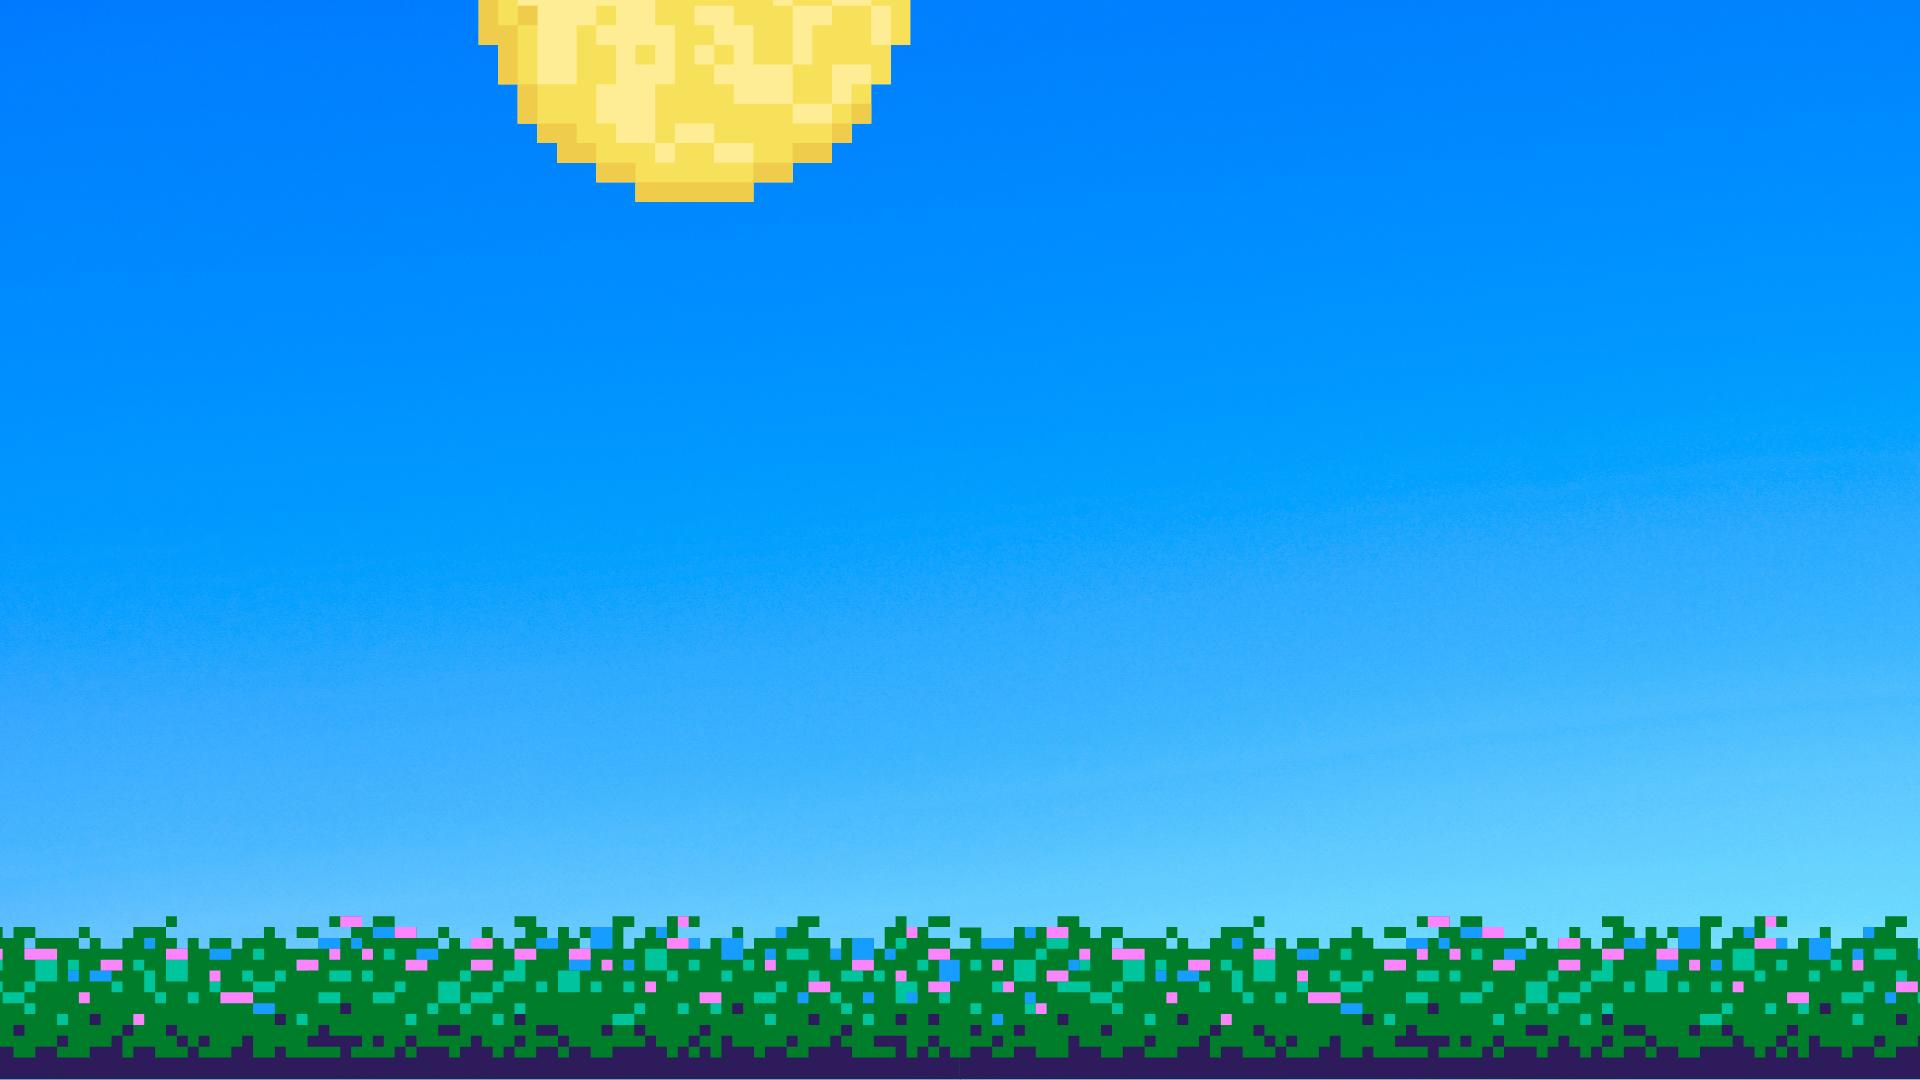
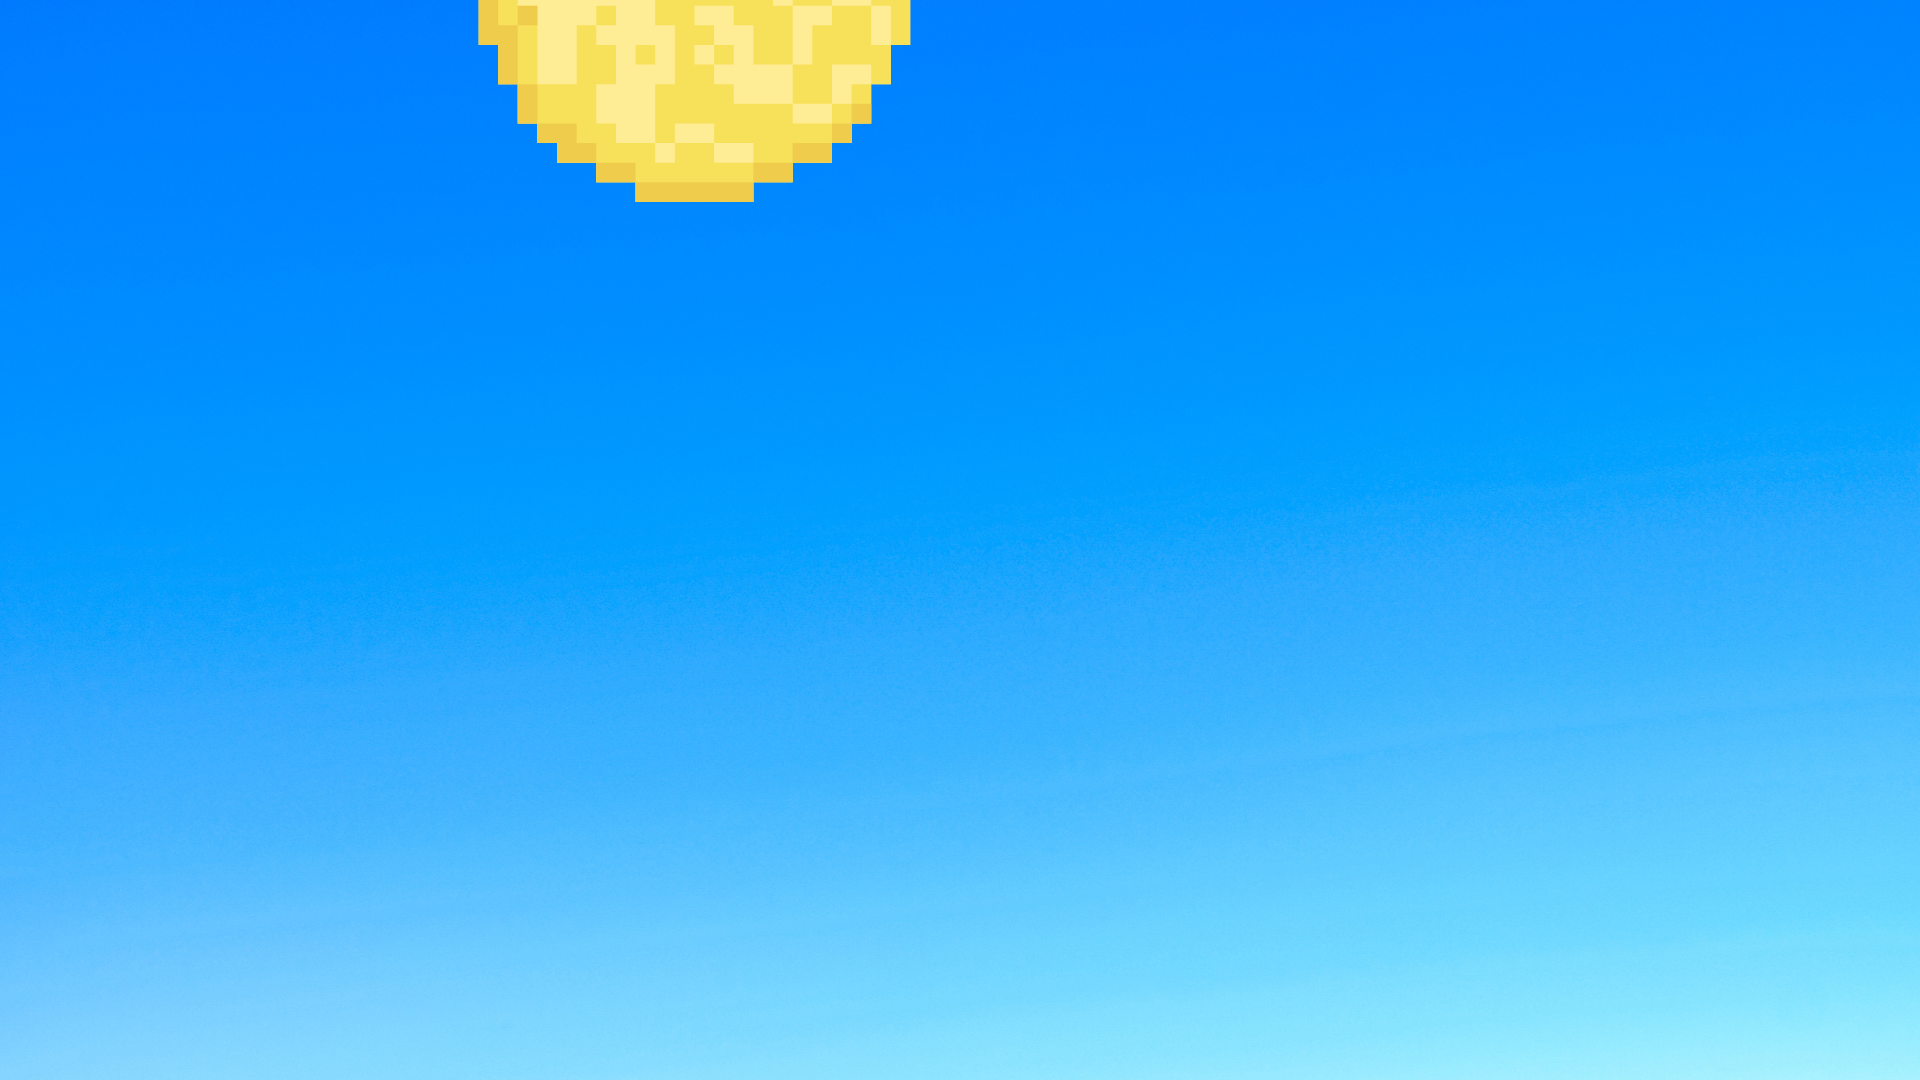
bush

Changed region(s): [[0.0, 0.825, 1.0, 1.0], [0.4062, 0.1222, 0.4375, 0.1528], [0.2812, 0.1222, 0.3125, 0.1528]]

diff --git a/src/GamePanel.java b/src/GamePanel.java
@@ -85,6 +85,11 @@ public class GamePanel extends JPanel implements ActionListener, KeyListener {
     private Image titleSelectImage;
     private Image groundImage;
     private Image backgroundImage;
+    private Image bushImage;
+    private Image homeImage;
+    private int bushOffset = 0;
+    private int bushLayerWidth =0;
+    private int bushLayerHeight = 0;
     private Image[] cloudImage = new Image[2];
     private int groundOffset = 0;
     private final int NUM_CLOUD = 4;
@@ -99,8 +104,18 @@ public class GamePanel extends JPanel implements ActionListener, KeyListener {
         groundImage = new ImageIcon("ground.jpg").getImage();
         cloudImage[0] = new ImageIcon("cloud1.png").getImage();
         cloudImage[1] = new ImageIcon("cloud2.png").getImage();
+        homeImage = new ImageIcon("home.png").getImage();
         setPreferredSize(new Dimension(WIDTH, HEIGHT));
         GROUND_Y = HEIGHT - 80; // ปรับ 150 ได้ตามความหนาพื้น
+
+        ImageIcon bushIcon = new ImageIcon("bush.png");
+        bushImage = bushIcon.getImage();
+        bushLayerHeight = 500;
+        if(bushIcon.getIconHeight() > 0){
+            bushLayerWidth = (bushIcon.getIconWidth() * bushLayerHeight) / bushIcon.getIconHeight();
+        }else{
+            bushLayerWidth = 800;
+        }
 
         setBackground(Color.BLACK);
         setLayout(null);
@@ -203,6 +218,13 @@ public class GamePanel extends JPanel implements ActionListener, KeyListener {
         if (groundOffset <= -groundImage.getWidth(null)) {
             groundOffset = 0;
         }
+        int bushSpeed = (int)(gameSpeed * 0.6);
+        if(bushSpeed < 1) bushSpeed = 1;
+
+        bushOffset -= bushSpeed;
+        if(bushLayerWidth > 0 && bushOffset <= -bushLayerWidth){
+            bushOffset = 0;
+        }
 
         repaint();
     }
@@ -233,8 +255,12 @@ public class GamePanel extends JPanel implements ActionListener, KeyListener {
     protected void paintComponent(Graphics g) {
         super.paintComponent(g);
         if (gameState == GameState.MENU) {
-            g.setColor(new Color(10, 10, 40));
-            g.fillRect(0, 0, WIDTH, HEIGHT);
+            if(homeImage != null){
+                g.drawImage(homeImage, 0, 0, WIDTH , HEIGHT ,null);
+            }else{
+                g.setColor(Color.BLACK);
+                g.fillRect(0,0,WIDTH,HEIGHT);
+            }
 
             int boardWidth = 450;
             int boardHeigh = 150;
@@ -280,6 +306,11 @@ public class GamePanel extends JPanel implements ActionListener, KeyListener {
                 if (cloudImage[type] != null) {
                     g.drawImage(cloudImage[type], cloudXs.get(i), cloudYs.get(i), 500, 300, null);
                 }
+            }
+        }
+        if(bushImage != null && bushLayerWidth > 0){
+            for(int x = bushOffset ; x < WIDTH ; x += bushLayerWidth){
+                g.drawImage(bushImage,x,GROUND_Y - bushLayerHeight ,bushLayerWidth,bushLayerHeight,null);
             }
         }
         if (groundImage != null) {
